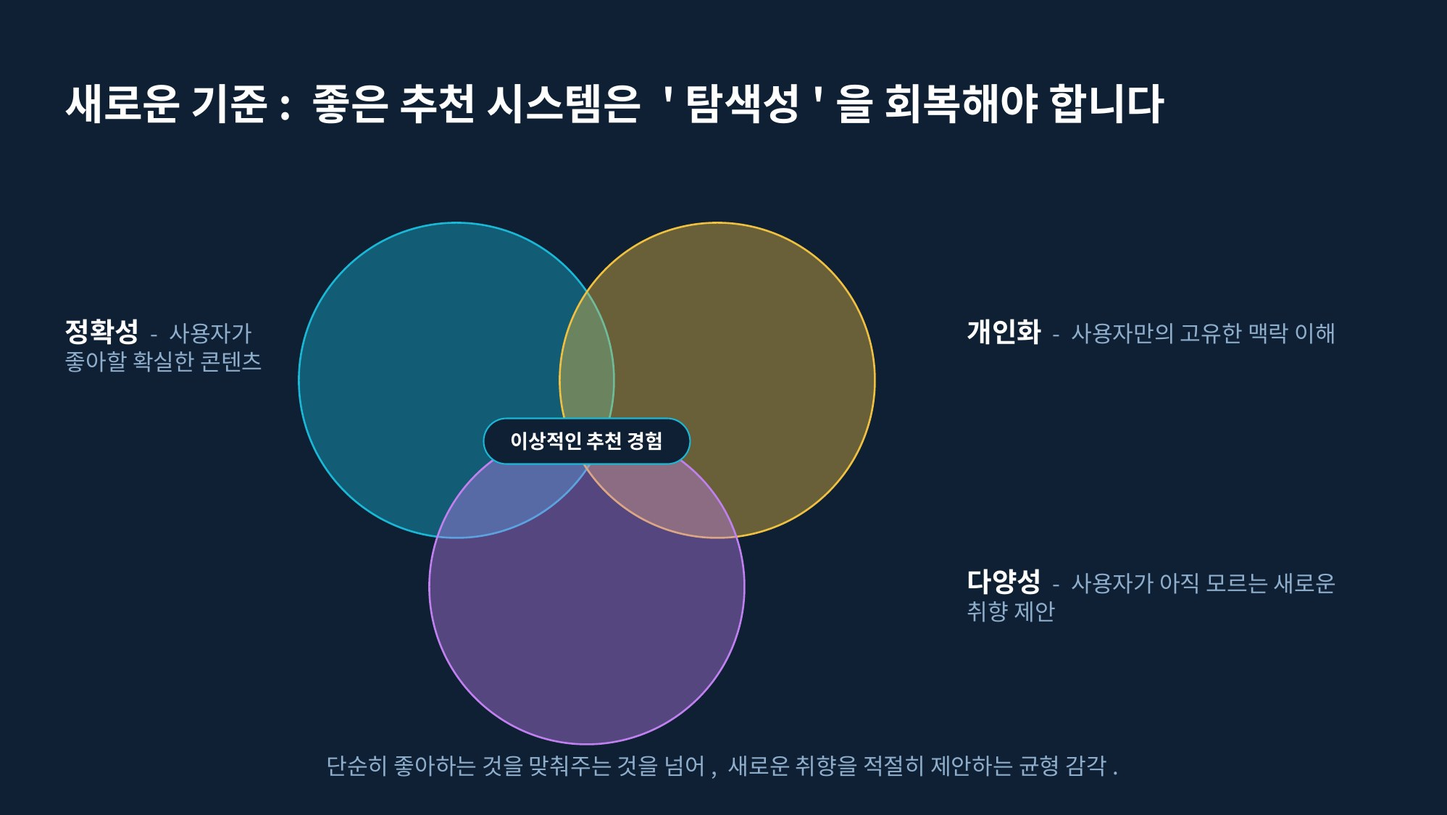
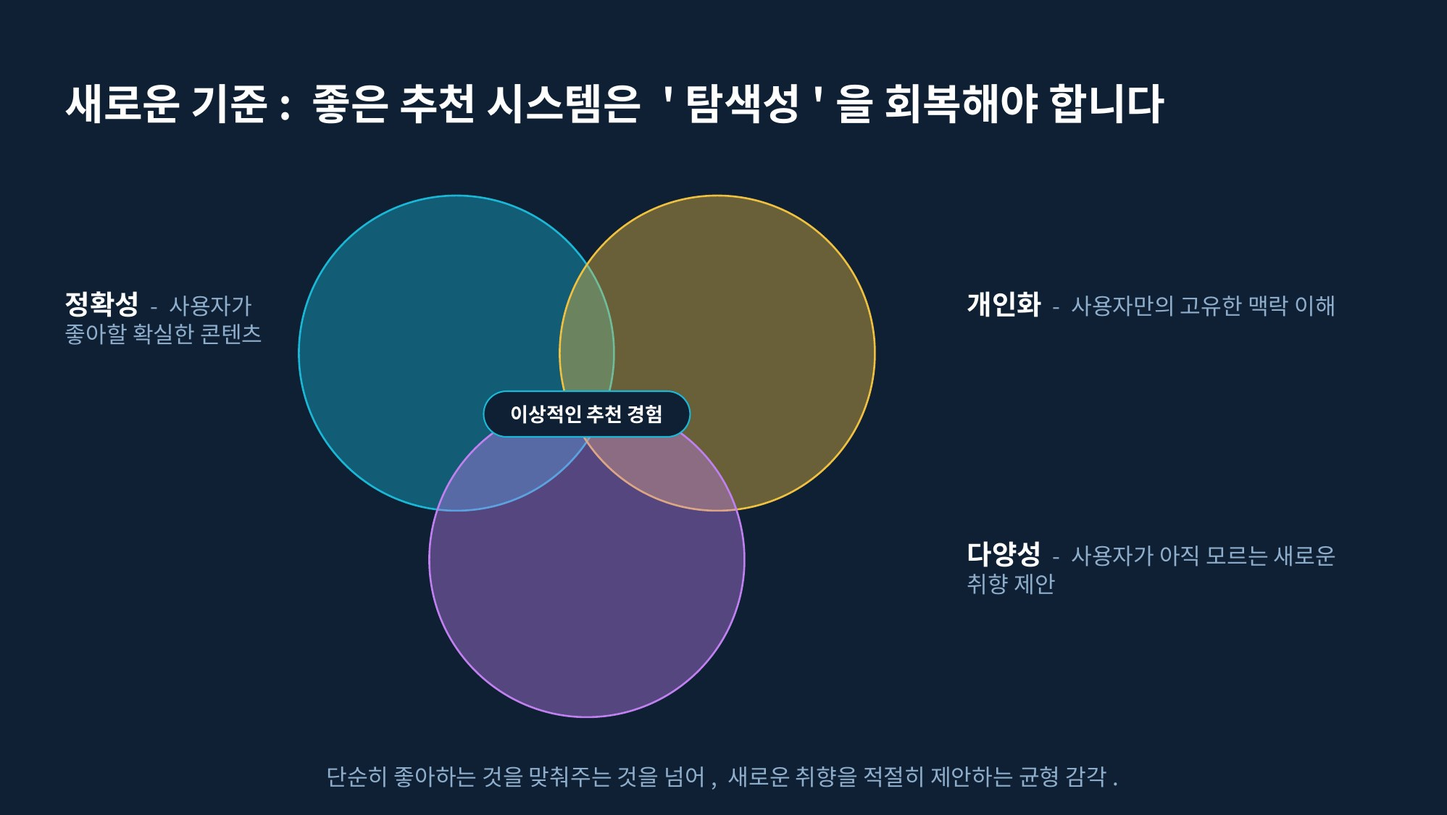
Add files via upload
포트폴리오 피드백 수정

diff --git a/index.html b/index.html
@@ -3,10 +3,10 @@
 <body><div class="progress" id="progress"></div><header class="header"><a class="logo" href="#intro" aria-label="맨 위로">BEYOND<span>·</span>THE FAMILIAR</a><nav aria-label="주요 메뉴"><a href="#question">QUESTION</a><a href="#action">ACTION</a><a href="#exploration">EXPLORATION</a><a href="#expression">EXPRESSION</a><a href="#vision">VISION</a><a href="#aigen">AIGEN</a></nav><button class="menu-button" id="menuButton" aria-expanded="false" aria-controls="mobileMenu">MENU <span>☰</span></button></header><nav class="mobile-menu" id="mobileMenu" aria-label="모바일 메뉴"><a href="#question">QUESTION</a><a href="#action">ACTION</a><a href="#exploration">EXPLORATION</a><a href="#expression">EXPRESSION</a><a href="#vision">VISION</a><a href="#aigen">AIGEN</a></nav>
 <main>
 <section id="intro" class="hero dark"><div class="hero-noise"></div><div class="hero-top"><span>SK AIGEN / PORTFOLIO — LEE JI YOUNG</span><span>2026 — A QUESTION IN PROGRESS</span></div><div class="hero-main"><p class="eyebrow light">A QUESTION WORTH EXPLORING <span class="spark">✳</span></p><h1>AI는 새로운<br><em>나를 발견하도록</em><br>도울 수 있을까<span class="period">?</span></h1><div class="hero-bottom"><p>개인화 추천을 개발하며 발견한 질문.<br>미술을 통해 직접 경험한 새로운 선택.<br>이 두 경험이 하나의 탐구로 이어졌습니다.</p><a class="round-arrow" href="#question" aria-label="다음 섹션으로 이동">↘</a></div></div><div class="hero-footer"><span>DEVELOPMENT → EXPLORATION → EXPRESSION</span><span>SCROLL TO DISCOVER ↓</span></div><div class="orbit orbit-one"></div><div class="orbit orbit-two"></div></section>
-<section id="question" class="section dark question"><div class="section-heading reveal"><span class="index">01 / THE QUESTION</span><span class="section-category">발견 · DEVELOPMENT</span></div><div class="section-body reveal"><p class="eyebrow light">THE STARTING POINT</p><h2>추천할 작품이<br><span class="accent">사라진다면?</span></h2><p class="lead lead-oneline">사용자가 좋아하는 장르를 정확히 보여주는 것만으로, 좋은 추천이라고 할 수 있을까?</p><p class="body-copy body-oneline">웹소설 플랫폼에서 사용자 취향 기반 작품 노출 기능을 개발했습니다.<br>특정 장르의 미열람 작품을 우선 보여주는 구조를 살피던 중, 이용량이 많은 사용자가 해당 장르의 작품을 대부분 읽었다면 추천 후보가 부족해질 수 있다는 점에 주목했습니다.</p></div><div class="case-grid reveal"><div class="case-panel"><div class="panel-label">EXISTING RULE / 기존 조건</div><div class="rule-row"><span class="rule-num">01</span><span>사용자가 선택한 장르</span></div><div class="rule-row"><span class="rule-num">02</span><span>미열람 작품 우선</span></div><div class="rule-row"><span class="rule-num">03</span><span>좋아요 수 · 조회 수 기준 정렬</span></div><div class="rule-row"><span class="rule-num">+</span><span>일부 프로모션 작품 포함</span></div></div><div class="case-panel question-panel"><div class="panel-label">WHAT IF? / 발견한 가능성</div><div class="empty-illustration"><div class="empty-card"></div><div class="empty-card"></div><div class="empty-card outline">?</div></div><p>많이 읽은 사용자에게는<br>보여줄 새 작품이 부족할 수도 있다.</p><small>※ 실제 이탈이나 후보 고갈이 측정된 사례가 아닌, 개발 과정에서 발견한 잠재적 문제입니다.</small></div></div><div class="evidence reveal"><span>PROJECT EVIDENCE</span><div class="service-showcase"><div class="service-image is-flow"><div class="service-flow"><figure><img src="assets/svc-1-onboarding.jpg" alt="북팔 앱 관심분야 설정 화면. 좋아하는 장르 키워드를 3개 이상 선택하는 화면" loading="lazy"><figcaption><b>STEP 1</b><span>관심분야 설정</span></figcaption></figure><span class="flow-arrow" aria-hidden="true">›</span><figure><img src="assets/svc-2-main.jpg" alt="북팔 앱 메인홈 디자인 시안. 상단 배너와 카테고리 바로가기가 보이는 화면" loading="lazy"><figcaption><b>STEP 2</b><span>메인홈</span></figcaption></figure><span class="flow-arrow" aria-hidden="true">›</span><figure><img src="assets/svc-3-reco.jpg" alt="북팔 앱 메인홈 디자인 시안. BOOKPAL 추천작 목록이 보이는 화면" loading="lazy"><figcaption><b>STEP 3</b><span>추천작 영역</span></figcaption></figure></div></div><div class="service-info"><span class="mini-label">BOOKPAL 7.0 / SERVICE DESIGN</span><h3>메인홈을 구현하는<br>데이터의 연결</h3><p>사용자가 선택한 관심 장르를 기반으로 추천 작품을 조회하는 백엔드 API를 개발했습니다. 온보딩(관심분야 설정), 메인홈의 추천 작품·이벤트 배너 등 관련 API를 담당했고, 퍼블리셔가 구현한 화면에 데이터를 연동해 사용자별 추천 작품이 노출되도록 했습니다.</p><div class="service-chips"><span>BACKEND API</span><span>UI DATA INTEGRATION</span></div><small>※ 첨부 디자인 홍보 이미지이며, 실제 운영 화면 캡처는 아닙니다.</small></div></div><p>북팔 7.0 모바일 서비스 디자인 시안입니다. 관심분야 설정부터 메인홈 및 추천 작품 노출까지의 화면 흐름을 보여줍니다. 담당 범위는 백엔드 API 개발과 퍼블리셔가 구현한 화면의 데이터 연동입니다. 화면에 보이는 추천 작품 영역은 개인화 노출 UI를 보여주지만, 이 이미지 자체가 추천 로직의 개선 효과를 증명하지는 않습니다.</p></div></section>
+<section id="question" class="section dark question"><div class="section-heading reveal"><span class="index">01 / THE QUESTION</span><span class="section-category">발견 · DEVELOPMENT</span></div><div class="section-body reveal"><p class="eyebrow light">THE STARTING POINT</p><h2>추천할 작품이<br><span class="accent">사라진다면?</span></h2><p class="lead lead-oneline">사용자가 좋아하는 장르를 정확히 보여주는 것만으로, 좋은 추천이라고 할 수 있을까?</p><p class="body-copy body-oneline">웹소설 플랫폼에서 사용자 취향 기반 작품 노출 기능을 개발했습니다.<br>미열람 작품을 우선 보여주는 구조에서, 많이 읽은 사용자는 추천 후보가 부족해질 수 있다는 점에 주목했습니다.</p></div><div class="case-grid reveal"><div class="case-panel"><div class="panel-label">EXISTING RULE / 기존 조건</div><div class="rule-row"><span class="rule-num">01</span><span>사용자가 선택한 장르</span></div><div class="rule-row"><span class="rule-num">02</span><span>미열람 작품 우선</span></div><div class="rule-row"><span class="rule-num">03</span><span>좋아요 수 · 조회 수 기준 정렬</span></div><div class="rule-row"><span class="rule-num">+</span><span>일부 프로모션 작품 포함</span></div></div><div class="case-panel question-panel"><div class="panel-label">WHAT IF? / 발견한 가능성</div><div class="empty-illustration"><div class="empty-card"></div><div class="empty-card"></div><div class="empty-card outline">?</div></div><p>많이 읽은 사용자에게는<br>보여줄 새 작품이 부족할 수도 있다.</p><small>※ 실제 이탈이나 후보 고갈이 측정된 사례가 아닌, 개발 과정에서 발견한 잠재적 문제입니다.</small></div></div><div class="evidence reveal"><span>PROJECT EVIDENCE</span><div class="service-showcase"><div class="service-image is-flow"><div class="service-flow"><figure><img src="assets/svc-1-onboarding.jpg" alt="북팔 앱 관심분야 설정 화면. 좋아하는 장르 키워드를 3개 이상 선택하는 화면" loading="lazy"><figcaption><b>STEP 1</b><span>관심분야 설정</span></figcaption></figure><span class="flow-arrow" aria-hidden="true">›</span><figure><img src="assets/svc-2-main.jpg" alt="북팔 앱 메인홈 디자인 시안. 상단 배너와 카테고리 바로가기가 보이는 화면" loading="lazy"><figcaption><b>STEP 2</b><span>메인홈</span></figcaption></figure><span class="flow-arrow" aria-hidden="true">›</span><figure><img src="assets/svc-3-reco.jpg" alt="북팔 앱 메인홈 디자인 시안. BOOKPAL 추천작 목록이 보이는 화면" loading="lazy"><figcaption><b>STEP 3</b><span>추천작 영역</span></figcaption></figure></div></div><div class="service-info"><span class="mini-label">BOOKPAL 7.0 / SERVICE DESIGN</span><h3>메인홈을 구현하는<br>데이터의 연결</h3><p>관심 장르 기반 추천 작품 조회 API를 개발했고, 온보딩과 메인홈의 추천 작품·이벤트 배너 API를 담당했습니다. 퍼블리셔가 구현한 화면에는 데이터를 연동했습니다.</p><div class="service-chips"><span>BACKEND API</span><span>UI DATA INTEGRATION</span></div><small>※ 첨부 디자인 홍보 이미지이며, 실제 운영 화면 캡처는 아닙니다.</small></div></div><p>북팔 7.0 모바일 서비스 디자인 시안입니다. 이 이미지는 추천 로직의 개선 효과를 증명하지 않습니다.</p></div></section>
 <section id="action" class="section paper action"><div class="section-heading reveal"><span class="index">02 / FROM QUESTION TO ACTION</span><span class="section-category">실행 · COLLABORATION</span></div><div class="section-body reveal"><p class="eyebrow">A PRACTICAL CHANGE</p><h2>질문을<br><em>행동으로.</em></h2><p class="lead lead-oneline">추천 범위를 넓히는 방법을 제안하고, 기획팀과 함께 실제 노출 정책으로 구체화했습니다.</p></div><div class="compare reveal"><div class="compare-box"><span class="compare-tag">BEFORE</span><h3>익숙한 장르 안에서</h3><div class="genre-map"><span class="genre active">로맨스</span><span class="genre muted">로맨스 판타지</span><span class="genre muted">기타 장르</span></div><p>선택 장르 중심의 후보 탐색</p></div><div class="compare-center">→</div><div class="compare-box after"><span class="compare-tag">AFTER / 개선 방향</span><h3>인접한 장르까지</h3><div class="genre-map"><span class="genre active">로맨스</span><span class="genre secondary">로맨스 판타지</span><span class="genre muted">기타 장르</span></div><p>기획팀과 협의한 유사 장르 노출</p></div></div><div class="role-grid reveal"><div><span class="tiny">MY CONTRIBUTION / 본인 기여</span><h3>문제 발견 → 개선 제안 → 로직 반영</h3><p>유사 장르까지 추천 범위를 확장하는 방안을 먼저 제안하고, 협의된 정책을 개발 로직에 반영했습니다.</p></div><div><span class="tiny">TEAM CONTRIBUTION / 협업</span><h3>노출 정책 구체화</h3><p>기획팀이 대상 장르와 노출 수량을 정하고, 함께 적용 가능한 방식을 조율했습니다.</p></div></div><div class="note reveal">확인된 결과는 <b>개선안의 정책 반영과 로직 구현</b>입니다. 추천 다양성 향상이나 이탈률 감소는 확인하지 못했고, 효과를 어떻게 검증할지가 이후의 숙제로 남았습니다.</div></section>
 <section id="exploration" class="section dark exploration"><div class="section-heading reveal"><span class="index">03 / THE QUESTION EXPANDS</span><span class="section-category">확장 · ACADEMIC EXPLORATION</span></div><div class="section-body reveal"><p class="eyebrow light">FROM DEVELOPMENT TO EXPLORATION</p><h2>좋은 추천은<br><span class="accent">정확하기만</span><br>하면 될까?</h2><p class="lead lead-oneline">추천은 취향을 이해하지만, 동시에 다음 선택에 영향을 줄 수도 있습니다.</p><p class="body-copy body-oneline">대학원에서 ‘AI 추천 시스템은 사용자 취향을 넓힐까, 가둘까?’를 주제로 발표했습니다.<br>콘텐츠 발견과 탐색 비용 감소라는 장점뿐 아니라 비슷한 콘텐츠가 반복 노출되는 필터 버블의 가능성도 함께 살펴봤습니다.</p></div><div class="thought-grid reveal"><div><span>01 / BENEFIT</span><h3>취향을 발견하다</h3><p>익숙한 선호를 바탕으로 탐색을 도와준다.</p></div><div><span>02 / TENSION</span><h3>취향에 머무르다</h3><p>비슷한 선택지만 반복해서 보게 될 수도 있다.</p></div><div><span>03 / QUESTION</span><h3>선택지를 넓히다</h3><p>정확성과 다양성은 어떻게 함께 고려할 수 있을까?</p></div></div><div class="evidence reveal"><span>ACADEMIC MATERIAL</span><div class="presentation-showcase"><div class="presentation-image"><img src="assets/presentation-v2.jpg" alt="AI 추천 시스템은 우리의 취향을 넓히고 있을까요, 아니면 가두고 있을까요? 발표 표지" loading="lazy"></div><div class="presentation-info"><span class="mini-label">ACADEMIC EXPLORATION</span><h3>추천은 취향을<br>넓힐까, 가둘까?</h3><p>대학원에서 추천 시스템의 편의성과 필터 버블 가능성을 함께 살펴본 발표입니다.</p><span class="source-label">대학원 발표 자료 · 학업 중 탐구</span></div></div><div class="presentation-showcase"><div class="presentation-image"><img src="assets/presentation-criteria.jpg" alt="새로운 기준: 좋은 추천 시스템은 탐색성을 회복해야 합니다. 정확성, 개인화, 다양성의 균형을 나타낸 벤다이어그램" loading="lazy"></div><div class="presentation-info"><span class="mini-label">발표 핵심</span><h3>새로운 기준,<br>탐색성의 회복</h3><p>정확성과 개인화에 다양성을 더한 균형을 좋은 추천의 기준으로 제안한 장입니다.</p><span class="source-label">대학원 발표 자료 · 8페이지</span></div></div><p>AI 추천 시스템에 관한 발표 자료. 실증 연구나 AI 모델 개발 결과가 아닌 학업 중 탐구 활동입니다.</p></div><div class="bridge reveal"><span>AN UNEXPECTED CONNECTION</span><p>그 질문은 문득,<br><em>미술을 배우던 나의 경험</em>을 떠올리게 했습니다.</p><a href="#expression">THE NEXT CHAPTER ↘</a></div></section>
-<section id="expression" class="section gallery expression"><div class="section-heading reveal"><span class="index">04 / A PERSONAL DISCOVERY</span><span class="section-category">연결 · EXPRESSION</span></div><div class="section-body reveal"><p class="eyebrow">DISCOVERING THROUGH ART</p><h2>내가 몰랐던<br><em>나의 취향.</em></h2><p class="lead lead-oneline lead-long">미술 선생님의 제안으로 익숙하지 않은 재료와 표현 방식을 시도하면서, 새로운 취향을 발견했습니다.</p><p class="body-copy body-oneline">3년 넘게 유화와 아크릴을 그렸습니다.<br>정해진 답이 없는 표현을 시도하는 동안 스스로 어떤 색과 방식에 끌리는지 돌아볼 수 있었습니다.<br>때로는 그날의 기분에 따라 색감이나 붓질이 달라진다고 느꼈습니다.<br>이는 개인적인 관찰이지 감정 상태를 판별하는 근거는 아닙니다.</p></div><div class="art-gallery-v5 reveal"><div class="works-carousel" aria-roledescription="carousel" aria-label="선택한 작품 슬라이드"><div class="works-viewport"><div class="works-track"><figure class="works-slide"><img src="assets/work-lilies.jpg" alt="분홍 수련과 연잎이 떠 있는 푸른 연못을 그린 그림" loading="lazy" draggable="false"></figure><figure class="works-slide"><img src="assets/work-elephant.jpg" alt="알록달록한 색으로 그린 코끼리 정면 그림" loading="lazy" draggable="false"></figure><figure class="works-slide"><img src="assets/work-birch.jpg" alt="노란 빛이 스며든 자작나무 숲을 그린 그림" loading="lazy" draggable="false"></figure><figure class="works-slide"><img src="assets/work-eiffel.jpg" alt="노란 가을 나무와 에펠탑이 있는 파리 거리를 그린 그림" loading="lazy" draggable="false"></figure><figure class="works-slide"><img src="assets/work-sunflower.jpg" alt="초록 배경 위의 해바라기 꽃다발을 그린 그림" loading="lazy" draggable="false"></figure><figure class="works-slide"><img src="assets/work-tree.jpg" alt="눈 덮인 밤 풍경 속 불빛으로 장식된 크리스마스 트리를 그린 그림" loading="lazy" draggable="false"></figure><figure class="works-slide"><img src="assets/work-turtle.jpg" alt="분홍빛 산호 사이를 헤엄치는 바다거북을 그린 그림" loading="lazy" draggable="false"></figure><figure class="works-slide"><img src="assets/work-lavender.jpg" alt="라벤더 밭과 해바라기, 분홍 지붕의 집을 그린 그림" loading="lazy" draggable="false"></figure><figure class="works-slide"><img src="assets/work-lily-candle.jpg" alt="파란 배경 위 유리병에 꽂힌 하얀 백합과 주황빛 촛불을 그린 그림" loading="lazy" draggable="false"></figure><figure class="works-slide"><img src="assets/work-peaches.jpg" alt="흰 배경 위에 쌓인 분홍빛 복숭아 네 개를 그린 그림" loading="lazy" draggable="false"></figure></div></div><button class="works-nav prev" type="button" aria-label="이전 작품">‹</button><button class="works-nav next" type="button" aria-label="다음 작품">›</button><div class="works-counter" aria-live="polite"><b>1</b> / 10</div></div><div class="exhibition-v5"><div class="exhibition-v5-heading"><div><span class="mini-label">EXHIBITION RECORD / 2024</span><h3>그림이 전시 공간으로 이어진 경험</h3></div><p>2024년 그룹전 ‘맘대로 잇다’ 1기 참여<br>영등포 아츠스테이 · 2024.10.03 – 10.11</p></div><div class="exhibition-bento"><figure class="eb-l1"><img src="assets/exc-1-rose.jpg" alt="벽돌 벽에 걸린 분홍 장미 그림" loading="lazy"></figure><figure class="eb-l2"><img src="assets/exc-2-postcard.jpg" alt="전시 작품을 인쇄한 엽서를 손에 든 모습" loading="lazy"></figure><figure class="eb-c"><img src="assets/exc-3-wall.jpg" alt="벽돌 벽에 걸린 작가의 그림들" loading="lazy"></figure><figure class="eb-r1"><img src="assets/exc-4-venue.jpg" alt="아츠스테이 전시 공간 전경. 벽돌 벽에 작품들이 걸려 있다" loading="lazy"></figure><figure class="eb-r2"><img src="assets/exc-5-table.jpg" alt="전시장 테이블에 놓인 작품 엽서들" loading="lazy"></figure></div></div></div><div class="gallery-quote reveal"><span>THE INSIGHT</span><p>새로운 선택을 권해주는 누군가가 있었기에,<br>미처 몰랐던 취향을 발견할 수 있었습니다.</p></div></section>
+<section id="expression" class="section gallery expression"><div class="section-heading reveal"><span class="index">04 / A PERSONAL DISCOVERY</span><span class="section-category">연결 · EXPRESSION</span></div><div class="section-body reveal"><p class="eyebrow">DISCOVERING THROUGH ART</p><h2>내가 몰랐던<br><em>나의 취향.</em></h2><p class="lead lead-oneline lead-long">미술 선생님의 제안으로 익숙하지 않은 재료와 표현 방식을 시도하면서, 새로운 취향을 발견했습니다.</p><p class="body-copy body-oneline">3년 넘게 유화와 아크릴을 그렸습니다.<br>정해진 답이 없는 표현을 시도하는 동안 스스로 어떤 색과 방식에 끌리는지 돌아볼 수 있었습니다.<br>때로는 그날의 기분에 따라 색감이나 붓질이 달라진다고 느꼈습니다.</p></div><div class="art-gallery-v5 reveal"><div class="works-carousel" aria-roledescription="carousel" aria-label="선택한 작품 슬라이드"><div class="works-viewport"><div class="works-track"><figure class="works-slide"><img src="assets/work-lilies.jpg" alt="분홍 수련과 연잎이 떠 있는 푸른 연못을 그린 그림" loading="lazy" draggable="false"></figure><figure class="works-slide"><img src="assets/work-elephant.jpg" alt="알록달록한 색으로 그린 코끼리 정면 그림" loading="lazy" draggable="false"></figure><figure class="works-slide"><img src="assets/work-birch.jpg" alt="노란 빛이 스며든 자작나무 숲을 그린 그림" loading="lazy" draggable="false"></figure><figure class="works-slide"><img src="assets/work-eiffel.jpg" alt="노란 가을 나무와 에펠탑이 있는 파리 거리를 그린 그림" loading="lazy" draggable="false"></figure><figure class="works-slide"><img src="assets/work-sunflower.jpg" alt="초록 배경 위의 해바라기 꽃다발을 그린 그림" loading="lazy" draggable="false"></figure><figure class="works-slide"><img src="assets/work-tree.jpg" alt="눈 덮인 밤 풍경 속 불빛으로 장식된 크리스마스 트리를 그린 그림" loading="lazy" draggable="false"></figure><figure class="works-slide"><img src="assets/work-turtle.jpg" alt="분홍빛 산호 사이를 헤엄치는 바다거북을 그린 그림" loading="lazy" draggable="false"></figure><figure class="works-slide"><img src="assets/work-lavender.jpg" alt="라벤더 밭과 해바라기, 분홍 지붕의 집을 그린 그림" loading="lazy" draggable="false"></figure><figure class="works-slide"><img src="assets/work-lily-candle.jpg" alt="파란 배경 위 유리병에 꽂힌 하얀 백합과 주황빛 촛불을 그린 그림" loading="lazy" draggable="false"></figure><figure class="works-slide"><img src="assets/work-peaches.jpg" alt="흰 배경 위에 쌓인 분홍빛 복숭아 네 개를 그린 그림" loading="lazy" draggable="false"></figure></div></div><button class="works-nav prev" type="button" aria-label="이전 작품">‹</button><button class="works-nav next" type="button" aria-label="다음 작품">›</button><div class="works-counter" aria-live="polite"><b>1</b> / 10</div></div><p class="works-note">※ 3년 넘게 직접 그린 작품입니다.</p><div class="exhibition-v5"><div class="exhibition-v5-heading"><div><span class="mini-label">EXHIBITION RECORD / 2024</span><h3>그림이 전시 공간으로 이어진 경험</h3></div><p>2024년 그룹전 ‘맘대로 잇다’ 1기 참여<br>영등포 아츠스테이 · 2024.10.03 – 10.11</p></div><div class="exhibition-bento"><figure class="eb-l1"><img src="assets/exc-1-rose.jpg" alt="벽돌 벽에 걸린 분홍 장미 그림" loading="lazy"></figure><figure class="eb-l2"><img src="assets/exc-2-postcard.jpg" alt="전시 작품을 인쇄한 엽서를 손에 든 모습" loading="lazy"></figure><figure class="eb-c"><img src="assets/exc-3-wall.jpg" alt="벽돌 벽에 걸린 작가의 그림들" loading="lazy"></figure><figure class="eb-r1"><img src="assets/exc-4-venue.jpg" alt="아츠스테이 전시 공간 전경. 벽돌 벽에 작품들이 걸려 있다" loading="lazy"></figure><figure class="eb-r2"><img src="assets/exc-5-table.jpg" alt="전시장 테이블에 놓인 작품 엽서들" loading="lazy"></figure></div></div></div><div class="gallery-quote reveal"><span>THE INSIGHT</span><p>새로운 선택을 권해주는 누군가가 있었기에,<br>미처 몰랐던 취향을 발견할 수 있었습니다.</p></div></section>
 <section id="vision" class="section paper vision"><div class="section-heading reveal"><span class="index">05 / A NEW POSSIBILITY</span><span class="section-category">구상 · FUTURE CONCEPT</span></div><div class="section-body reveal"><p class="eyebrow">A CONCEPT TO TEST — NOT A FINISHED PRODUCT</p><h2>AI도 새로운 표현의<br><em>시작을 도울 수 있을까?</em></h2><p class="lead lead-oneline">사용자가 자신의 감정을 표현하고,<br>평소 시도하지 않았던 미술 활동을 발견하도록 돕는 비의료적 도구를 구상합니다.</p></div><div class="steps reveal"><div class="step"><span class="step-index">01 / RECORD</span><div class="step-icon">✎</div><h3>기록</h3><p>오늘의 생각과 느낌을 자유롭게 적어보기</p></div><div class="step-arrow">→</div><div class="step"><span class="step-index">02 / EXPLORE</span><div class="step-icon">✳</div><h3>탐색</h3><p>익숙하지 않은 재료와 표현 활동 제안받기</p></div><div class="step-arrow">→</div><div class="step"><span class="step-index">03 / REFLECT</span><div class="step-icon">◌</div><h3>회고</h3><p>활동 후 나의 선택과 느낌 돌아보기</p></div></div><div class="example-flow reveal"><span class="mini-label">EXAMPLE · 어느 평일 저녁</span><div class="ex-phones"><div class="ex-phone"><div class="ex-bar">오늘의 기록</div><div class="ex-body"><span class="ex-step">STEP 1</span><h4>기록</h4><div class="ex-bubble">오늘은 일이 많아서 머릿속이 복잡했다.</div></div><div class="ex-btn">저장</div></div><span class="ex-arrow" aria-hidden="true">›</span><div class="ex-phone"><div class="ex-bar">오늘의 제안</div><div class="ex-body"><span class="ex-step">STEP 2</span><h4>탐색</h4><div class="ex-suggest"><b>선으로만 그려보기</b><span>오일 파스텔로, 복잡한 느낌을 15분 동안 선으로만 표현해 보세요.</span></div></div><div class="ex-btn">해 볼게요</div></div><span class="ex-arrow" aria-hidden="true">›</span><div class="ex-phone"><div class="ex-bar">오늘의 회고</div><div class="ex-body"><span class="ex-step">STEP 3</span><h4>회고</h4><p class="ex-ask">해 보니 어땠나요?</p><div class="ex-bubble">생각보다 손이 먼저 움직였다. 다음엔 색을 더해보고 싶다.</div></div><div class="ex-btn">남기기</div></div></div><p class="ex-note">※ 구상을 설명하기 위한 예시이며, 실제 서비스 화면이 아닙니다.</p></div><div class="concept-note reveal"><span>BOUNDARY & RESPONSIBILITY</span><p>AI가 감정을 진단하거나 치료 효과를 판단하는 서비스가 아닙니다.<br>사용자가 자신의 경험을 스스로 돌아보도록 돕는 <b>비의료적 표현 활동</b>을 출발점으로 삼습니다.<br>AI는 기록을 바탕으로 표현 활동을 제안하는 데까지만 쓰고, 활동을 고르고 해석하는 일은 사용자가 합니다.</p></div></section>
-<section id="aigen" class="section dark ending"><div class="section-heading reveal"><span class="index">06 / THE NEXT STEP</span><span class="section-category">도전 · SK AIGEN</span></div><div class="section-body reveal"><p class="eyebrow light">WHY SK AIGEN?</p><h2>답을 정하기보다<br><span class="accent">직접 확인하겠습니다.</span></h2><p class="lead">아이디어가 그럴듯한지보다,<br>실제 사용자에게 의미 있는 경험인지 확인하고 싶습니다.</p></div><div class="roadmap reveal"><div><span>01</span><h3>사용자 이해</h3><p>미술을 시작하고 지속할 때 겪는 어려움 듣기</p></div><div><span>02</span><h3>문제 정의</h3><p>다양한 배경의 동료들과 가정과 우선순위 검토</p></div><div><span>03</span><h3>초기 구현</h3><p>감정 기록과 미술 활동 제안의 초기 형태 만들기</p></div><div><span>04</span><h3>반응 검증</h3><p>실제 피드백을 바탕으로 가설 수정하기</p></div></div><div class="final-statement reveal"><span>THE QUESTION CONTINUES</span><p>AI는 새로운<br><em>나를 발견하도록</em><br>도울 수 있을까<span>?</span></p><small>이 질문을 SK AIGEN에서 함께 고민하고, 연구하며, 검증해 보고 싶습니다.</small></div><footer><span>LEE JI YOUNG · 이지영 · SK AIGEN PORTFOLIO · 2026</span><a href="#intro">BACK TO TOP ↑</a><span>BEYOND THE FAMILIAR</span></footer></section>
+<section id="aigen" class="section dark ending"><div class="section-heading reveal"><span class="index">06 / THE NEXT STEP</span><span class="section-category">도전 · SK AIGEN</span></div><div class="section-body reveal"><p class="eyebrow light">WHY SK AIGEN?</p><h2>답을 정하기보다<br><span class="accent">직접 확인하겠습니다.</span></h2><p class="lead">아이디어가 그럴듯한지보다,<br>실제 사용자에게 의미 있는 경험인지 확인하고 싶습니다.</p></div><div class="roadmap reveal"><div><span>01</span><h3>사용자 이해</h3><p>미술을 시작하고 지속할 때 겪는 어려움 듣기</p></div><div><span>02</span><h3>문제 정의</h3><p>다양한 배경의 동료들과 가정과 우선순위 검토</p></div><div><span>03</span><h3>초기 구현</h3><p>감정 기록과 미술 활동 제안의 초기 형태 만들기</p></div><div><span>04</span><h3>반응 검증</h3><p>실제 피드백을 바탕으로 가설 수정하기</p></div></div><div class="final-statement reveal"><span>THE QUESTION CONTINUES</span><p>AI는 새로운<br><em>나를 발견하도록</em><br>도울 수 있을까<span>?</span></p><small>이 질문을 SK AIGEN에서 검증해 보고 싶습니다.</small></div><footer><span>LEE JI YOUNG · 이지영 · SK AIGEN PORTFOLIO · 2026</span><a href="#intro">BACK TO TOP ↑</a><span>BEYOND THE FAMILIAR</span></footer></section>
 </main><dialog id="lightbox" class="lightbox"><button id="closeLightbox" class="close-lightbox" aria-label="닫기">×</button><div id="lightboxContent"></div><p id="lightboxCaption"></p></dialog><script src="script.js"></script></body></html>

diff --git a/styles.css b/styles.css
@@ -129,3 +129,5 @@
 .service-info h3,.service-info p{word-break:keep-all}
 
 .presentation-showcase+.presentation-showcase{margin-top:18px}
+
+.works-note{margin:-52px 0 0;font-size:13px;letter-spacing:-.01em;color:rgba(16,21,25,.58)}

diff --git a/README.md b/README.md
@@ -1,4 +1,4 @@
-# SK AI GÉN 포트폴리오 웹사이트
+# SK AIGEN 포트폴리오 웹사이트
 
 ## 실행
 `index.html`을 브라우저에서 열면 됩니다. 별도의 빌드나 설치가 필요 없는 정적 웹사이트입니다. 인터넷이 연결되면 Google Fonts를 사용하며, 오프라인에서는 시스템 폰트로 대체됩니다.
@@ -94,3 +94,7 @@ GitHub Pages, Netlify, Vercel 등의 정적 사이트 호스팅에 폴더 내용
 - 03 섹션 ACADEMIC MATERIAL에 대학원 발표자료 8페이지(새로운 기준: 탐색성의 회복) 패널을 표지 아래에 추가했습니다(assets/presentation-criteria.jpg).
 - 02 섹션 하단 문구의 마지막 문장을 '효과를 어떻게 검증할지가 이후의 숙제로 남았습니다'로 바꿨습니다.
 - 05 섹션 BOUNDARY & RESPONSIBILITY에 AI의 역할 범위(활동 제안까지, 선택과 해석은 사용자) 한 문장을 추가했습니다.
+- 사이트와 README의 'SK AI GÉN' 표기를 'SK AIGEN'으로 통일했습니다.
+- 04 섹션: '개인적인 관찰이지 감정 상태를 판별하는 근거는 아닙니다' 문장을 제거하고, 작품 슬라이더 아래에 '3년 넘게 직접 그린 작품입니다' 주석을 추가했습니다.
+- 03 섹션 발표 슬라이드(8페이지) 하단 문장이 벤다이어그램에 붙어 보이던 간격을 넓혀 이미지를 다시 만들었습니다.
+- 자소서와 겹치는 문구를 줄였습니다: 01 소개 둘째 줄, PROJECT EVIDENCE 담당 업무와 캡션, 06 마지막 다짐 문장.
